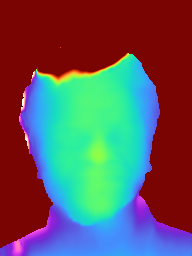
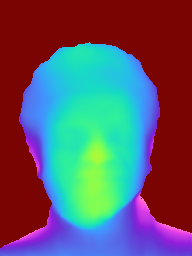
Add selfie segmentation processing before depth estimation

diff --git a/depth-estimation/src/ar_portrait_depth/estimator.ts b/depth-estimation/src/ar_portrait_depth/estimator.ts
@@ -14,11 +14,12 @@
  * limitations under the License.
  * =============================================================================
  */
+import * as bodySegmentation from '@tensorflow-models/body-segmentation';
 import * as tfconv from '@tensorflow/tfjs-converter';
 import * as tf from '@tensorflow/tfjs-core';
 
 import {DepthEstimator} from '../depth_estimator';
-import {getImageSize, toImageTensor, transformValueRange} from '../shared/calculators/image_utils';
+import {transformValueRange} from '../shared/calculators/image_utils';
 import {toHTMLCanvasElementLossy} from '../shared/calculators/mask_util';
 import {DepthEstimatorInput, DepthMap} from '../types';
 
@@ -45,11 +46,15 @@ class ARPortraitDepthMap implements DepthMap {
   }
 }
 
+const TRANSFORM_INPUT_IMAGE = transformValueRange(0, 255, 0, 1);
+const PORTRAIT_HEIGHT = 256;
+const PORTRAIT_WIDTH = 192;
 /**
  * ARPortraitDepth estimator class.
  */
 class ARPortraitDepthEstimator implements DepthEstimator {
   constructor(
+      private readonly segmenter: bodySegmentation.BodySegmenter,
       private readonly estimatorModel: tfconv.GraphModel,
       private readonly minDepth: number, private readonly maxDepth: number) {}
 
@@ -78,49 +83,65 @@ class ARPortraitDepthEstimator implements DepthEstimator {
       return null;
     }
 
-    const image3d = tf.tidy(() => {
-      let imageTensor = tf.cast(toImageTensor(image), 'float32');
-      if (config.flipHorizontal) {
-        const batchAxis = 0;
-        imageTensor = tf.squeeze(
-            tf.image.flipLeftRight(
-                // tslint:disable-next-line: no-unnecessary-type-assertion
-                tf.expandDims(imageTensor, batchAxis) as tf.Tensor4D),
-            [batchAxis]);
-      }
-      return imageTensor;
-    });
+    const segmentation = await this.segmenter.segmentPeople(
+        image, {flipHorizontal: config.flipHorizontal});
 
-    const {height, width} = getImageSize(image3d);
+    // Convert the segmentation into a mask to darken the background.
+    const foregroundColor = {r: 0, g: 0, b: 0, a: 0};
+    const backgroundColor = {r: 0, g: 0, b: 0, a: 255};
+    const backgroundDarkeningMask = await bodySegmentation.toBinaryMask(
+        segmentation, foregroundColor, backgroundColor);
 
-    // Normalizes the values from [0, 255] to [0, 1], same ranged used
-    // during training.
-    const transformInput = transformValueRange(0, 255, 0, 1);
-    this.minDepth;
-    this.maxDepth;
+    segmentation.forEach(
+        singleSegmentation => singleSegmentation.mask.toTensor().then(
+            tensor => tensor.dispose()));
+
+    const opacity = 1.0;
+    const maskBlurAmount = 0;
+    const flipHorizontal = false;
+    const masked = document.createElement('canvas');
+    masked.width = PORTRAIT_WIDTH;
+    masked.height = PORTRAIT_HEIGHT;
+    // Draw the mask onto the image on a canvas.  With opacity set to 0.7
+    // and maskBlurAmount set to 3, this will darken the background and blur
+    // the darkened background's edge.
+    await bodySegmentation.drawMask(
+        masked, image, backgroundDarkeningMask, opacity, maskBlurAmount,
+        flipHorizontal);
 
     const depthTensor = tf.tidy(() => {
-      const imageResized = tf.image.resizeBilinear(image3d, [256, 192]);
-      // Masks the image
-      const imageNormalized = tf.add(
-          tf.mul(imageResized, transformInput.scale), transformInput.offset);
+      let maskedImage = masked.getContext('2d').getImageData(
+          0, 0, masked.width, masked.height);
 
-      // Runs the model.
-      const batchInput = tf.expandDims(imageNormalized);
+      const maskedImageTensor = tf.browser.fromPixels(maskedImage);
+      const [height, width] = maskedImageTensor.shape;
+      const image1Float = tf.cast(maskedImageTensor, 'float32');
 
-      // Depth prediction.
+      // Normalizes the values from [0, 255] to [0, 1], same ranged used
+      // during training.
+      const imageNormalized =
+          tf.add(
+              tf.mul(image1Float, TRANSFORM_INPUT_IMAGE.scale),
+              TRANSFORM_INPUT_IMAGE.offset) as tf.Tensor3D;
+
+      const imageResized = tf.image.resizeBilinear(
+          imageNormalized, [PORTRAIT_HEIGHT, PORTRAIT_WIDTH]);
+
+      // Shape after expansion is [1, height, width, 3].
+      const batchInput = tf.expandDims(imageResized);
+
+      // Depth prediction (ouput shape is [1, height, width, 1]).
       const depth4D = this.estimatorModel.predict(batchInput) as tf.Tensor4D;
 
-      // Remove batch dimension.
-      const depth3D = tf.squeeze(depth4D, [0]);
-
-      // Output is roughly in [0,2] range, normalize to [0,1]
-      const depthNormalized = tf.div(depth3D, 2);
-
       // Normalize to user requirements.
-      const result = tf.div(
-                         tf.sub(depthNormalized, this.minDepth),
-                         this.maxDepth - this.minDepth) as tf.Tensor3D;
+      const depthTransform =
+          transformValueRange(this.minDepth, this.maxDepth, 0, 1);
+
+      // Output is roughly in [0,2] range, so half the scale factor to put it in
+      // [0,1] range first.
+      const scale = depthTransform.scale / 2;
+      const result =
+          tf.add(tf.mul(depth4D, scale), depthTransform.offset) as tf.Tensor3D;
 
       // Keep in [0,1] range.
       const resultClipped = tf.clipByValue(result, 0, 1);
@@ -130,21 +151,22 @@ class ARPortraitDepthEstimator implements DepthEstimator {
           tf.image.resizeBilinear(resultClipped, [height, width]);
 
       // Remove channel dimension.
-      const resultSqueezed = tf.squeeze(resultResized, [2]);
+      const resultSqueezed = tf.squeeze(resultResized, [0, 3]);
 
       return resultSqueezed;
     });
-
-    tf.dispose(image3d);
 
     return new ARPortraitDepthMap(depthTensor as tf.Tensor2D);
   }
 
   dispose() {
+    this.segmenter.dispose();
     this.estimatorModel.dispose();
   }
 
-  reset() {}
+  reset() {
+    this.segmenter.reset();
+  }
 }
 
 /**
@@ -159,11 +181,16 @@ export async function load(modelConfig: ARPortraitDepthModelConfig):
     Promise<DepthEstimator> {
   const config = validateModelConfig(modelConfig);
 
-  const modelFromTFHub = typeof config.modelUrl === 'string' &&
-      (config.modelUrl.indexOf('https://tfhub.dev') > -1);
+  const depthModelFromTFHub = typeof config.depthModelUrl === 'string' &&
+      (config.depthModelUrl.indexOf('https://tfhub.dev') > -1);
 
-  const model =
-      await tfconv.loadGraphModel(config.modelUrl, {fromTFHub: modelFromTFHub});
+  const depthModel = await tfconv.loadGraphModel(
+      config.depthModelUrl, {fromTFHub: depthModelFromTFHub});
 
-  return new ARPortraitDepthEstimator(model, config.minDepth, config.maxDepth);
+  const segmenter = await bodySegmentation.createSegmenter(
+      bodySegmentation.SupportedModels.MediaPipeSelfieSegmentation,
+      {runtime: 'tfjs', modelUrl: config.segmentationModelUrl});
+
+  return new ARPortraitDepthEstimator(
+      segmenter, depthModel, config.minDepth, config.maxDepth);
 }

diff --git a/depth-estimation/src/ar_portrait_depth/ar_portrait_depth_test.ts b/depth-estimation/src/ar_portrait_depth/ar_portrait_depth_test.ts
@@ -92,10 +92,6 @@ function turboPlus(x: number) {
     const RHS = mix(COLORS[31], COLORS[32], saturate((x - .99) / .01))
                     .map(value => scale * value);
     col = col.map((value, i) => value + RHS[i]);
-    if (col[0] > 1 || col[1] > 1 || col[2] > 1) {
-      console.log(col.map((value, i) => value - RHS[i]));
-      console.log(scale + ' ' + 31 + ' ' + x);
-    }
 
     return col.map(value => value * 255);
   });
@@ -113,7 +109,7 @@ describeWithFlags('ARPortraitDepth', ALL_ENVS, () => {
     jasmine.DEFAULT_TIMEOUT_INTERVAL = timeout;
   });
 
-  fit('estimateDepth does not leak memory.', async () => {
+  it('estimateDepth does not leak memory.', async () => {
     const startTensors = tf.memory().numTensors;
 
     // Note: this makes a network request for model assets.
@@ -126,17 +122,18 @@ describeWithFlags('ARPortraitDepth', ALL_ENVS, () => {
 
     const depthMap = await estimator.estimateDepth(input);
 
-    // Add 1 for depthMap underlying tensor.
-    expect(tf.memory().numTensors).toEqual(beforeTensors + 1);
+    (await depthMap.toTensor()).dispose();
+    // TODO: Remove +2 after body segmentation is leak is fixed.
+    expect(tf.memory().numTensors).toEqual(beforeTensors + 2);
 
-    tf.dispose(await depthMap.toTensor());
     estimator.dispose();
     input.dispose();
 
-    expect(tf.memory().numTensors).toEqual(startTensors);
+    // TODO: Remove +2 after body segmentation is leak is fixed.
+    expect(tf.memory().numTensors).toEqual(startTensors + 2);
   });
 
-  fit('throws error when minDepth is not set.', async (done) => {
+  it('throws error when minDepth is not set.', async (done) => {
     try {
       await depthEstimation.createEstimator(
           depthEstimation.SupportedModels.ARPortraitDepth);
@@ -148,7 +145,7 @@ describeWithFlags('ARPortraitDepth', ALL_ENVS, () => {
     }
   });
 
-  fit('throws error when minDepth is greater than maxDepth.', async (done) => {
+  it('throws error when minDepth is greater than maxDepth.', async (done) => {
     try {
       await depthEstimation.createEstimator(
           depthEstimation.SupportedModels.ARPortraitDepth,
@@ -177,7 +174,7 @@ describeWithFlags('ARPortraitDepth static image ', BROWSER_ENVS, () => {
     jasmine.DEFAULT_TIMEOUT_INTERVAL = timeout;
   });
 
-  fit('test.', async () => {
+  it('test.', async () => {
     // Get expected depth values.
     const expectedDepthImage = await loadImage('depth.png', 192, 256);
     const expectedDepthValuesRGBA = await toImageDataLossy(expectedDepthImage);
@@ -205,10 +202,12 @@ describeWithFlags('ARPortraitDepth static image ', BROWSER_ENVS, () => {
 
     actualDepthValues.dispose();
 
-    expect(tf.memory().numTensors).toEqual(beforeTensors);
+    // TODO: Remove +2 after body segmentation is leak is fixed.
+    expect(tf.memory().numTensors).toEqual(beforeTensors + 2);
 
     estimator.dispose();
 
-    expect(tf.memory().numTensors).toEqual(startTensors);
+    // TODO: Remove +2 after body segmentation is leak is fixed.
+    expect(tf.memory().numTensors).toEqual(startTensors + 2);
   });
 });

diff --git a/depth-estimation/src/ar_portrait_depth/types.ts b/depth-estimation/src/ar_portrait_depth/types.ts
@@ -28,13 +28,18 @@ import {EstimationConfig, ModelConfig} from '../types';
  * `maxDepth`: The maximum depth value for the model to map to 1. Any larger
  * depth values will also get mapped to 1.
  *
- * `modelUrl`: Optional. An optional string that specifies custom url of
+ * `segmentationModelUrl`: Optional. An optional string that specifies custom
+ * url of the selfie segmentation model. This is useful for area/countries that
+ * don't have access to the model hosted on tf.hub.
+ *
+ * `depthModelUrl`: Optional. An optional string that specifies custom url of
  * the portrait depth model. This is useful for area/countries that don't have
  * access to the model hosted on tf.hub.
  *
  */
 export interface ARPortraitDepthModelConfig extends ModelConfig {
-  modelUrl?: string|io.IOHandler;
+  segmentationModelUrl?: string|io.IOHandler;
+  depthModelUrl?: string|io.IOHandler;
 }
 
 export interface ARPortraitDepthEstimationConfig extends EstimationConfig {}

diff --git a/depth-estimation/src/ar_portrait_depth/estimator_utils.ts b/depth-estimation/src/ar_portrait_depth/estimator_utils.ts
@@ -32,8 +32,8 @@ export function validateModelConfig(modelConfig: ARPortraitDepthModelConfig):
 
   const config = {...modelConfig};
 
-  if (config.modelUrl == null) {
-    config.modelUrl = DEFAULT_AR_PORTRAIT_DEPTH_MODEL_URL;
+  if (config.depthModelUrl == null) {
+    config.depthModelUrl = DEFAULT_AR_PORTRAIT_DEPTH_MODEL_URL;
   }
 
   return config;

diff --git a/depth-estimation/src/ar_portrait_depth/README.md b/depth-estimation/src/ar_portrait_depth/README.md
@@ -25,6 +25,7 @@ Via script tags:
 <!-- You must explicitly require a TF.js backend if you're not using the TF.js union bundle. -->
 <script src="https://cdn.jsdelivr.net/npm/@tensorflow/tfjs-backend-webgl"></script>
 
+<script src="https://cdn.jsdelivr.net/npm/@tensorflow-models/body-segmentation"></script>
 <script src="https://cdn.jsdelivr.net/npm/@tensorflow-models/depth-estimation"></script>
 ```
 
@@ -32,6 +33,7 @@ Via npm:
 ```sh
 yarn add @tensorflow/tfjs-core, @tensorflow/tfjs-converter
 yarn add @tensorflow/tfjs-backend-webgl
+yarn add @tensorflow-models/body-segmentation
 yarn add @tensorflow-models/depth-estimation
 ```
 
@@ -64,7 +66,13 @@ depth values will also get mapped to 0.
 *   *maxDepth*: The maximum depth value for the model to map to 1. Any larger
 depth values will also get mapped to 1.
 
-*   *modelUrl*: An optional string that specifies custom url of
+*   *segmentationModelUrl*: An optional string that specifies custom url of
+the segmenter model. This is useful for area/countries that don't have access to the model hosted on tf.hub. It also accepts `io.IOHandler` which can be used with
+[tfjs-react-native](https://github.com/tensorflow/tfjs/tree/master/tfjs-react-native)
+to load model from app bundle directory using
+[bundleResourceIO](https://github.com/tensorflow/tfjs/blob/master/tfjs-react-native/
+
+*   *depthModelUrl*: An optional string that specifies custom url of
 the estimator model. This is useful for area/countries that don't have access to the model hosted on tf.hub. It also accepts `io.IOHandler` which can be used with
 [tfjs-react-native](https://github.com/tensorflow/tfjs/tree/master/tfjs-react-native)
 to load model from app bundle directory using
